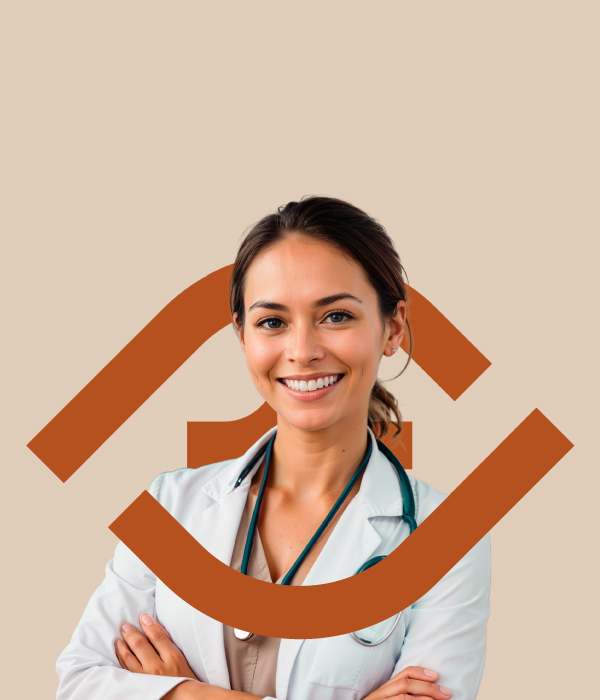
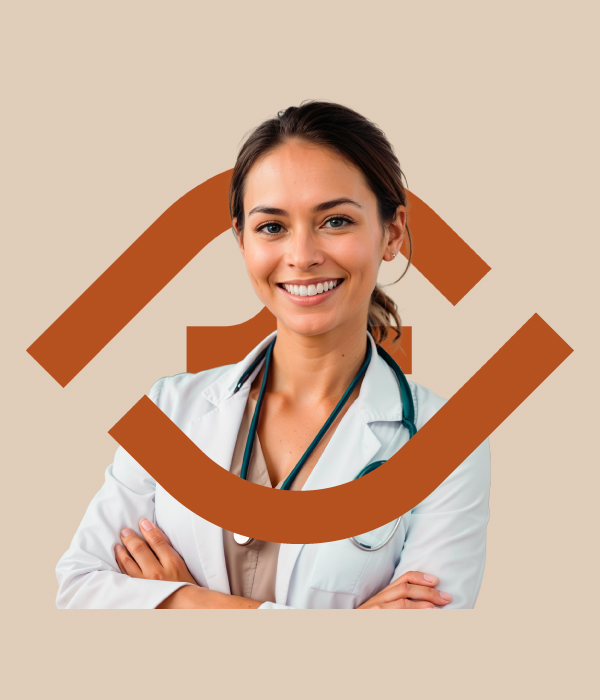
fix: ajustes de imagens, Team com dra-izabella-2, Contact split layout melhorado

diff --git a/components/sections/Contact.tsx b/components/sections/Contact.tsx
@@ -1,133 +1,147 @@
 'use client';
 
 import { MapPin, Phone, Mail, Clock, MessageCircle, Send } from 'lucide-react';
-import Section from '../ui/Section';
-import SectionTitle from '../ui/SectionTitle';
+import Image from 'next/image';
 
 export default function Contact() {
   return (
-    <Section id="contato" background="white">
-      <SectionTitle
-        title="Entre em Contato"
-        subtitle="Estamos prontos para atender você com excelência e humanidade"
-      />
-
-      <div className="grid grid-cols-1 lg:grid-cols-2 gap-8 md:gap-12 max-w-6xl mx-auto">
-        {/* Formulário */}
-        <div>
-          <h3 className="text-xl md:text-2xl font-bold text-terracota mb-4 md:mb-6">Envie sua Mensagem</h3>
-          <form className="space-y-4">
+    <section id="contato" className="relative overflow-hidden">
+      {/* Split Layout */}
+      <div className="grid lg:grid-cols-2 gap-0 min-h-[800px]">
+        {/* Lado Esquerdo - Formulário em fundo branco */}
+        <div className="bg-white p-8 md:p-12 lg:p-16 flex flex-col justify-center">
+          <span className="text-terracota font-semibold text-sm uppercase tracking-wider mb-2">Contato</span>
+          <h2 className="text-3xl md:text-4xl font-bold text-stone-900 mb-3">Entre em Contato</h2>
+          <p className="text-stone-600 mb-8">Estamos prontos para atender você com excelência e humanidade</p>
+          
+          <form className="space-y-5">
             <div>
-              <label className="block text-gray-700 font-medium mb-2 text-sm md:text-base">Nome Completo *</label>
+              <label className="block text-stone-700 font-medium mb-2">Nome Completo *</label>
               <input
                 type="text"
                 placeholder="Seu nome"
-                className="w-full px-4 py-2.5 md:py-3 border border-gray-300 finatti-border focus:ring-2 focus:ring-terracota focus:border-transparent text-sm md:text-base"
+                className="w-full px-4 py-3 border-2 border-stone-200 finatti-border focus:ring-2 focus:ring-terracota focus:border-terracota transition-all"
                 required
               />
             </div>
             <div>
-              <label className="block text-gray-700 font-medium mb-2 text-sm md:text-base">E-mail *</label>
+              <label className="block text-stone-700 font-medium mb-2">E-mail *</label>
               <input
                 type="email"
                 placeholder="seu@email.com"
-                className="w-full px-4 py-2.5 md:py-3 border border-gray-300 finatti-border focus:ring-2 focus:ring-terracota focus:border-transparent text-sm md:text-base"
+                className="w-full px-4 py-3 border-2 border-stone-200 finatti-border focus:ring-2 focus:ring-terracota focus:border-terracota transition-all"
                 required
               />
             </div>
             <div>
-              <label className="block text-gray-700 font-medium mb-2 text-sm md:text-base">Telefone</label>
+              <label className="block text-stone-700 font-medium mb-2">Telefone</label>
               <input
                 type="tel"
                 placeholder="(44) 99127-2027"
-                className="w-full px-4 py-2.5 md:py-3 border border-gray-300 finatti-border focus:ring-2 focus:ring-terracota focus:border-transparent text-sm md:text-base"
+                className="w-full px-4 py-3 border-2 border-stone-200 finatti-border focus:ring-2 focus:ring-terracota focus:border-terracota transition-all"
               />
             </div>
             <div>
-              <label className="block text-gray-700 font-medium mb-2 text-sm md:text-base">Mensagem *</label>
+              <label className="block text-stone-700 font-medium mb-2">Mensagem *</label>
               <textarea
                 rows={4}
                 placeholder="Como podemos ajudar?"
-                className="w-full px-4 py-2.5 md:py-3 border border-gray-300 finatti-border focus:ring-2 focus:ring-terracota focus:border-transparent text-sm md:text-base"
+                className="w-full px-4 py-3 border-2 border-stone-200 finatti-border focus:ring-2 focus:ring-terracota focus:border-terracota transition-all resize-none"
                 required
               />
             </div>
             <button
               type="submit"
-              className="w-full bg-terracota text-white py-2.5 md:py-3 finatti-border font-medium hover:bg-terracota-dark hover:scale-105 transition-all flex items-center justify-center gap-2 text-sm md:text-base shadow-lg hover:shadow-xl"
+              className="w-full bg-terracota text-white py-4 finatti-border font-semibold hover:bg-terracota-dark hover:scale-105 transition-all flex items-center justify-center gap-2 shadow-xl hover:shadow-2xl text-lg"
             >
               Enviar Mensagem
-              <Send size={18} />
+              <Send size={20} />
             </button>
           </form>
         </div>
 
-        {/* Informações */}
-        <div className="space-y-6">
-          <div className="grid grid-cols-1 sm:grid-cols-2 gap-4 md:gap-6">
-            <div className="bg-areia p-5 md:p-6 finatti-border">
-              <MapPin className="text-terracota mb-3" size={24} />
-              <h4 className="font-bold text-gray-800 mb-2 text-sm md:text-base">Endereço</h4>
-              <a 
-                href="https://maps.app.goo.gl/CCvbrU1Ys1J7odEFh" 
+        {/* Lado Direito - Informações em fundo terracota */}
+        <div className="bg-terracota text-white p-8 md:p-12 lg:p-16 flex flex-col justify-center relative overflow-hidden">
+          {/* Isotipo decorativo branco */}
+          <div className="absolute bottom-0 right-0 w-64 h-64 opacity-10 pointer-events-none">
+            <Image 
+              src="/images/05b.png" 
+              alt="" 
+              fill 
+              className="object-contain"
+            />
+          </div>
+
+          <div className="relative z-10">
+            <h3 className="text-3xl md:text-4xl font-bold mb-8">Informações de Contato</h3>
+            
+            <div className="space-y-6">
+              <div className="flex items-start gap-4 pb-6 border-b border-white/20">
+                <MapPin className="text-white flex-shrink-0 mt-1" size={28} />
+                <div>
+                  <h4 className="font-bold text-white mb-2 text-lg">Endereço</h4>
+                  <a 
+                    href="https://maps.app.goo.gl/CCvbrU1Ys1J7odEFh" 
+                    target="_blank"
+                    rel="noopener noreferrer"
+                    className="text-white/90 hover:text-white transition-colors"
+                  >
+                    Av. Espírito Santo, 130 - Zona 1<br />Cianorte - PR, 87200-000
+                  </a>
+                </div>
+              </div>
+
+              <div className="flex items-start gap-4 pb-6 border-b border-white/20">
+                <Phone className="text-white flex-shrink-0 mt-1" size={28} />
+                <div>
+                  <h4 className="font-bold text-white mb-2 text-lg">Telefone</h4>
+                  <a href="tel:+5544991272027" className="text-white/90 hover:text-white transition-colors text-lg">
+                    (44) 99127-2027
+                  </a>
+                </div>
+              </div>
+
+              <div className="flex items-start gap-4 pb-6 border-b border-white/20">
+                <Mail className="text-white flex-shrink-0 mt-1" size={28} />
+                <div>
+                  <h4 className="font-bold text-white mb-2 text-lg">E-mail</h4>
+                  <a href="mailto:contato@finatti.com.br" className="text-white/90 hover:text-white transition-colors">
+                    contato@finatti.com.br
+                  </a>
+                </div>
+              </div>
+
+              <div className="flex items-start gap-4">
+                <Clock className="text-white flex-shrink-0 mt-1" size={28} />
+                <div>
+                  <h4 className="font-bold text-white mb-2 text-lg">Horário</h4>
+                  <p className="text-white/90">Segunda a Sexta<br />8h às 18h</p>
+                </div>
+              </div>
+            </div>
+
+            {/* WhatsApp CTA */}
+            <div className="mt-10 pt-8 border-t border-white/20">
+              <div className="flex items-center gap-3 mb-4">
+                <MessageCircle size={32} />
+                <h4 className="text-2xl font-bold">Atendimento Rápido</h4>
+              </div>
+              <p className="mb-6 text-white/90 text-lg">
+                Prefere falar conosco pelo WhatsApp? Clique abaixo para iniciar uma conversa.
+              </p>
+              <a
+                href="https://wa.me/5544991272027?text=Finatti+Laboratório+de+Patologia+e+Citopatologia"
                 target="_blank"
                 rel="noopener noreferrer"
-                className="text-gray-600 hover:text-terracota text-sm md:text-base"
+                className="inline-flex items-center gap-3 bg-white text-terracota px-8 py-4 finatti-border font-bold hover:bg-areia hover:scale-105 transition-all shadow-xl text-lg"
               >
-                Av. Espírito Santo, 130 - Zona 1<br />Cianorte - PR, 87200-000
+                <MessageCircle size={24} />
+                Chamar no WhatsApp
               </a>
-            </div>
-
-            <div className="bg-areia p-5 md:p-6 finatti-border">
-              <Phone className="text-terracota mb-3" size={24} />
-              <h4 className="font-bold text-gray-800 mb-2 text-sm md:text-base">Telefone</h4>
-              <a href="tel:+5544991272027" className="text-gray-600 hover:text-terracota text-sm md:text-base">
-                (44) 99127-2027
-              </a>
-            </div>
-
-            <div className="bg-areia p-5 md:p-6 finatti-border">
-              <Mail className="text-terracota mb-3" size={24} />
-              <h4 className="font-bold text-gray-800 mb-2 text-sm md:text-base">E-mail</h4>
-              <a href="mailto:contato@finatti.com.br" className="text-gray-600 hover:text-terracota text-sm md:text-base break-all">
-                contato@finatti.com.br
-              </a>
-            </div>
-
-            <div className="bg-areia p-5 md:p-6 finatti-border">
-              <Clock className="text-terracota mb-3" size={24} />
-              <h4 className="font-bold text-gray-800 mb-2 text-sm md:text-base">Horário</h4>
-              <p className="text-gray-600 text-sm md:text-base">Seg-Sex: 8h às 18h</p>
-            </div>
-          </div>
-
-          {/* WhatsApp CTA */}
-          <div className="bg-teal text-white p-5 md:p-6 finatti-border">
-            <MessageCircle className="mb-3" size={28} />
-            <h3 className="text-lg md:text-xl font-bold mb-2">Atendimento Rápido</h3>
-            <p className="mb-4 text-sm md:text-base">
-              Prefere falar conosco pelo WhatsApp? Clique abaixo para iniciar uma conversa.
-            </p>
-            <a
-              href="https://wa.me/5544991272027?text=Finatti+Laboratório+de+Patologia+e+Citopatologia"
-              target="_blank"
-              rel="noopener noreferrer"
-              className="inline-flex items-center gap-2 bg-white text-teal px-5 md:px-6 py-2.5 md:py-3 finatti-border font-medium hover:bg-areia hover:scale-105 transition-all text-sm md:text-base shadow-lg"
-            >
-              <MessageCircle size={20} />
-              Chamar no WhatsApp
-            </a>
-          </div>
-
-          {/* Mapa Placeholder */}
-          <div className="bg-gray-200 rounded-xl h-48 md:h-64 flex items-center justify-center">
-            <div className="text-center">
-              <MapPin className="text-gray-400 mx-auto mb-2" size={40} />
-              <p className="text-gray-500 text-sm md:text-base">Mapa será adicionado aqui</p>
             </div>
           </div>
         </div>
       </div>
-    </Section>
+    </section>
   );
 }

diff --git a/components/sections/Team.tsx b/components/sections/Team.tsx
@@ -13,7 +13,7 @@ export default function Team() {
       crm: 'CRM-PR 44595 / RQE 34647',
       description: 'Especialista em patologia com anos de experiência em diagnóstico. Apaixonada por medicina de precisão e pelo cuidado humanizado.',
       email: 'izabella@finatti.com.br',
-      image: '/images/dra-izabella.jpeg',
+      image: '/images/dra-izabella-2.jpeg',
     },
     {
       name: 'Guilherme Cerci',
@@ -35,34 +35,34 @@ export default function Team() {
       {/* Layout assimétrico */}
       <div className="grid lg:grid-cols-3 gap-6 md:gap-8">
         {/* Card Dra. Izabella - GRANDE (2 colunas) */}
-        <div className="lg:col-span-2 grid md:grid-cols-2 gap-0 bg-areia rounded-tl-[3rem] rounded-br-[3rem] rounded-tr-none rounded-bl-none overflow-hidden shadow-xl hover:shadow-2xl transition-all">
+        <div className="lg:col-span-2 grid md:grid-cols-2 gap-0 bg-white rounded-tl-[3rem] rounded-br-[3rem] rounded-tr-none rounded-bl-none overflow-hidden shadow-xl hover:shadow-2xl transition-all border-2 border-areia">
           <div className="relative h-[400px] md:h-auto">
             <Image 
-              src="/images/dra-izabella.jpeg" 
+              src="/images/dra-izabella-2.jpeg" 
               alt="Dra. Izabella Novo Finatti"
               fill 
-              className="object-cover"
+              className="object-cover object-center"
             />
           </div>
-          <div className="p-6 md:p-8 flex flex-col justify-center">
-            <h3 className="text-2xl md:text-3xl font-bold text-terracota mb-2">
+          <div className="p-6 md:p-8 lg:p-10 flex flex-col justify-center bg-areia/50">
+            <h3 className="text-2xl md:text-3xl lg:text-4xl font-bold text-terracota mb-2">
               Dra. Izabella Novo Finatti
             </h3>
-            <p className="text-teal font-semibold mb-1">
+            <p className="text-teal font-semibold text-base md:text-lg mb-1">
               Médica Patologista | Cofundadora
             </p>
-            <p className="text-sm text-stone-500 mb-4">
+            <p className="text-sm text-stone-500 mb-5">
               CRM-PR 44595 / RQE 34647
             </p>
-            <p className="text-stone-600 leading-relaxed mb-6">
+            <p className="text-stone-700 leading-relaxed mb-6 text-base md:text-lg">
               Especialista em patologia com anos de experiência em diagnóstico. Apaixonada por medicina de precisão e pelo cuidado humanizado.
             </p>
             <a
               href="mailto:izabella@finatti.com.br"
-              className="inline-flex items-center gap-2 text-terracota hover:text-terracota-dark transition-colors font-medium"
+              className="inline-flex items-center gap-2 text-terracota hover:text-terracota-dark transition-colors font-semibold"
             >
-              <Mail size={18} />
-              <span>Email</span>
+              <Mail size={20} />
+              <span>Enviar Email</span>
             </a>
           </div>
         </div>

diff --git a/components/sections/Hero.tsx b/components/sections/Hero.tsx
@@ -89,14 +89,15 @@ export default function Hero() {
                 />
               </div>
               
-              {/* Imagem da Dra. - MAIOR */}
-              <div className="relative overflow-hidden rounded-tl-[4rem] rounded-br-[4rem] rounded-tr-none rounded-bl-none shadow-2xl border-8 border-white h-[450px] md:h-[600px] lg:h-[700px]">
+              {/* Imagem da Dra. - Tamanho reduzido para melhor qualidade */}
+              <div className="relative overflow-hidden rounded-tl-[4rem] rounded-br-[4rem] rounded-tr-none rounded-bl-none shadow-2xl border-8 border-white h-[400px] md:h-[500px] lg:h-[550px]">
                 <Image 
                   src="/images/hero-dra-finatti.jpg"
                   alt="Dra. Izabella Novo Finatti - Médica Patologista"
                   fill
                   className="object-cover object-top"
                   priority
+                  quality={90}
                 />
               </div>
               

diff --git a/components/sections/About.tsx b/components/sections/About.tsx
@@ -15,7 +15,7 @@ export default function About() {
               src="/images/dra-izabella.jpeg" 
               alt="Dra. Izabella Novo Finatti"
               fill 
-              className="object-cover lg:rounded-tr-[5rem] lg:rounded-bl-[5rem]"
+              className="object-cover object-[center_20%] lg:rounded-tr-[5rem] lg:rounded-bl-[5rem]"
             />
           </div>
           
